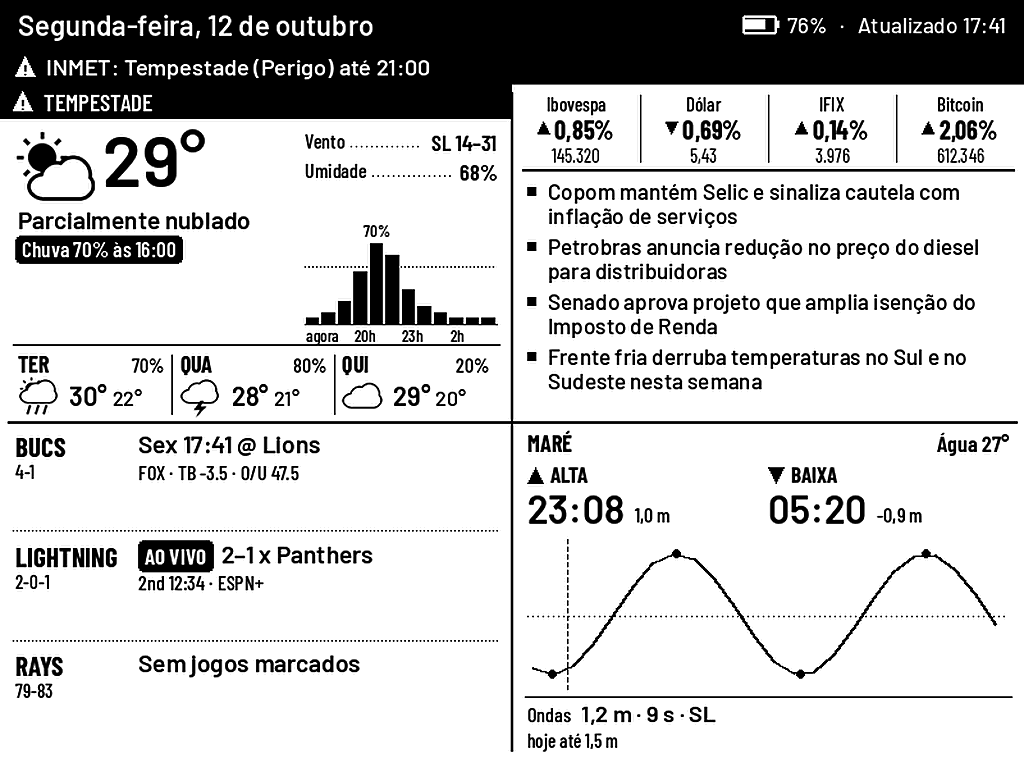
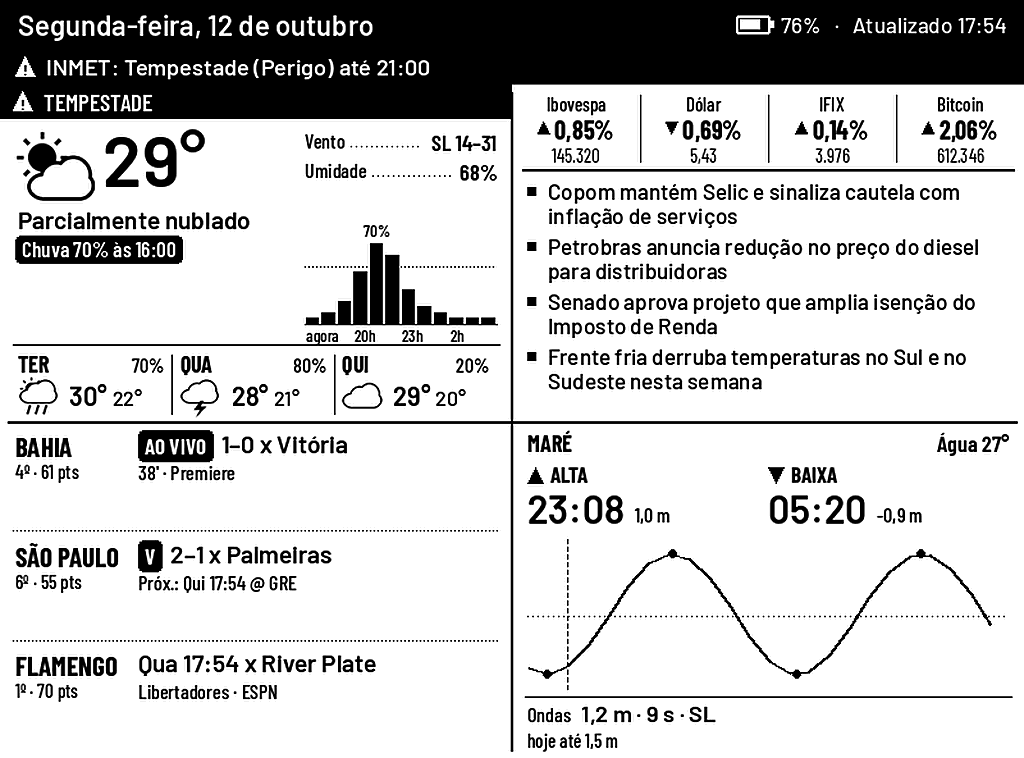
README: a Kindle Paperwhite project first; credit the original apart
- Rewritten in Portuguese around the Kindle: what the four corners show
  here (INMET, g1 / Agência Brasil, Ibovespa / dólar / IFIX / bitcoin,
  Bahia / São Paulo / G4, tides and waves), tap zones, how the Kindle and
  the server talk, setup (CASAOS.md, kindle/README.md), the dashboard and
  its Salvador defaults, data sources.
- The original eink-quad (j-rod-ay, Seeed reTerminal E1001) gets its own
  "Projeto original" section: what comes from it, what was added here, and
  that the E1001 path and the original options still work.
- Screenshots: kindle-quad / -weather / -news / -sports / -sea, from
  kindle_cases.py, whose sample teams are now Bahia, São Paulo, Flamengo.
- kindle/README.md: server link points at CASAOS.md / "Montando".

Claude-Session: https://claude.ai/code/session_01GVZJyjXu3HFDda6DCF8SeA

diff --git a/server/kindle_cases.py b/server/kindle_cases.py
@@ -33,17 +33,18 @@ heads = [S.Headline(t, "g1", now - 600 * i) for i, t in enumerate([
 qs = [S.Quote(sym, name, p, p / (1 + c / 100), [p / (1 + c / 100) * (1 + c / 100 * k / (n - 1)) for k in range(n)], "open", now)
       for sym, name, p, c, n in [("^BVSP", "Ibovespa", 145320.4, 0.85, 50), ("BRL=X", "Dólar", 5.4321, -0.69, 200),
                                  ("IFIX.SA", "IFIX", 3975.77, 0.14, 50), ("BTC-BRL", "Bitcoin", 612345.9, 2.06, 288)]]
-S.TEAMS.update({"bucs": ("Bucs", "football", "nfl", "tb"), "rays": ("Rays", "baseball", "mlb", "tb"),
-                "lightning": ("Lightning", "hockey", "nhl", "tb")})
-g = lambda **k: S.Game(**{"team": "", "abbr": "TB", "opp": "NO", "opp_name": "Saints", "home": True,
-                          "start": now + 86400, "state": "pre", "detail": "", **k})
-teams = [S.TeamRow("bucs", "Bucs", "4-1", last=g(state="post", us=27, them=17, start=now - 86400 * 2, detail="Final"),
-                   next=g(opp="DET", opp_name="Lions", home=False, start=now + 86400 * 4, tv="FOX",
-                          odds=S.Odds("DraftKings", "TB -3.5", -3.5, 47.5, -180, 150, 62))),
-         S.TeamRow("lightning", "Lightning", "2-0-1", live=g(opp="FLA", opp_name="Panthers", state="in", us=2, them=1,
-                                                             detail="2nd 12:34", tv="ESPN+")),
-         S.TeamRow("rays", "Rays", "79-83", last=g(opp="NYY", opp_name="Yankees", state="post", us=3, them=5,
-                                                   start=now - 86400 * 14, detail="Final"))]
+g = lambda key, **k: S.Game(**{"key": key, "team": "", "abbr": "", "opp": "", "opp_name": "", "home": True,
+                               "start": now + 86400, "state": "pre", "detail": "", **k})
+teams = [S.TeamRow("bahia", "Bahia", "4º · 61 pts",
+                   live=g("bahia", opp="VIT", opp_name="Vitória", state="in", us=1, them=0, detail="38'", tv="Premiere")),
+         S.TeamRow("sao_paulo", "São Paulo", "6º · 55 pts",
+                   last=g("sao_paulo", opp="PAL", opp_name="Palmeiras", state="post", us=2, them=1,
+                          start=now - 86400, detail="Final"),
+                   next=g("sao_paulo", opp="GRE", opp_name="Grêmio", home=False, start=now + 86400 * 3, tv="Globo")),
+         S.TeamRow("bra_819", "Flamengo", "1º · 70 pts",
+                   next=g("bra_819", opp="RIV", opp_name="River Plate", start=now + 86400 * 2, note="Libertadores",
+                          tv="ESPN"))]
+S.TEAMS.setdefault("bra_819", ("Flamengo", "soccer", "bra.1", "819"))
 fl = R.Sighting(callsign="DAL2474", airline="Delta Air Lines", origin="ATL", dest="TPA", origin_city="Atlanta",
                 dest_city="Tampa", alt_ft=6400, speed_kt=252, dist_nm=1.8, elev_deg=31, seen_at=now - 30,
                 flight_no="DL 2474", aircraft="Airbus A321neo", bearing=315, progress=0.93, eta_min=9, dest_dist_nm=4)

diff --git a/README.md b/README.md
@@ -1,118 +1,129 @@
-# Quad Board — Kindle Paperwhite edition
+# Quad Board para Kindle Paperwhite
 
-> Based on [j-rod-ay/eink-quad](https://github.com/j-rod-ay/eink-quad) (MIT). This copy adds a jailbroken
-> first-gen **Kindle Paperwhite** as a screen: see [`kindle/README.md`](kindle/README.md) (pt-BR).
+Um Kindle Paperwhite antigo, com jailbreak, vira um painel de cozinha: deitado de lado, ele mostra num relance o clima de Salvador, as notícias e o mercado, os jogos do Brasileirão e a maré. Tudo em 16 tons de cinza, atualizando sozinho e trocando de página com um toque.
 
-An e-paper kitchen dashboard for the Seeed reTerminal E1001. Four corners of your day on a 7.5" screen: the weather, the news and markets, your teams, and whatever is flying over the house right now.
+![O painel no Kindle Paperwhite](docs/img/kindle-quad.png)
 
-![Quad Board cycling through its pages](docs/img/demo.gif)
+## O que aparece
 
-**[See the project page →](https://j-rod-ay.github.io/eink-quad/)**
-
-🖥 **The screen: [Seeed reTerminal E1001 on Amazon](https://link.amazon/B0gH6ekeP)** — 7.5″ 800×480 mono e-paper, ESP32-S3, battery. *(affiliate link)*
-
-## What's on it
-
-| Corner | Shows |
+| Canto | Mostra |
 |---|---|
-| **Weather** | current conditions, rain chance for the next few hours, 3-day forecast, 15-minute rain nowcast, official alerts (INMET in Brazil, NWS in the US) |
-| **News & markets** | index and ticker moves, rotating headlines (g1, Agência Brasil, Folha, BBC News Brasil; WSJ still available) |
-| **Your teams** | live score, last result or next game for any ESPN team, with TV and the betting line |
-| **Sea (default here)** | next high/low tide, the tide curve, waves and water temperature, from Open-Meteo Marine; `sky_mode` = `planes` brings the plane corner back |
-| **Plane overhead** | airline, route, aircraft, altitude and which way to look, from live ADS-B. An ISS pass or a visible rocket launch takes this corner over |
+| **Clima** | condição atual, chance de chuva nas próximas horas, previsão de 3 dias, aviso de chuva para os próximos minutos e alertas oficiais do **INMET** |
+| **Notícias e mercado** | manchetes do **g1** e da **Agência Brasil** (Folha e BBC News Brasil opcionais), mais **Ibovespa, dólar, IFIX e bitcoin** com minigráfico do dia |
+| **Times** | **Bahia**, **São Paulo** e o **G4** do Brasileirão ao vivo: placar, último resultado, próximo jogo (Libertadores, Sul-Americana e Copa do Brasil inclusive), posição e pontos |
+| **Mar** | próxima maré alta e baixa, curva da maré, ondas e temperatura da água. Passagens visíveis da ISS e lançamentos de foguete tomam o canto quando acontecem |
 
-A strip under the header carries one line: your own pinned message, a severe weather alert, or a sentence from Claude that ties the day together (optional).
+Logo abaixo da data, uma faixa traz uma linha: o seu recado fixado, um alerta severo do INMET ou um resumo do dia escrito pelo **Claude** (opcional). A interface toda está em português, com °C, relógio de 24 h e números no formato brasileiro.
 
-The three buttons on top work as **home**, **previous page** and **next page**. Each corner has its own detail page:
+Cada canto tem uma página de detalhe:
 
 | | |
 |---|---|
-| ![Weather](docs/img/weather.png) | ![News & markets](docs/img/news.png) |
-| ![Scores](docs/img/sports.png) | ![Sky above](docs/img/sky.png) |
+| ![Clima](docs/img/kindle-weather.png) | ![Notícias e mercado](docs/img/kindle-news.png) |
+| ![Placar e agenda](docs/img/kindle-sports.png) | ![Mar e marés](docs/img/kindle-sea.png) |
 
-## How it works
+### Toque
 
-The screen doesn't decide anything. A small Python server renders every pixel with Pillow, diffs the frame against what's already on the glass, and hands the board only the rectangles that changed. The board long-polls over HTTPS (or deep-sleeps between checks on battery) and plays those rectangles as ~1 s partial refreshes. A full refresh with 4 grey levels runs on the regular update, and a flashing one every couple of hours wipes ghosting.
+Com o Kindle deitado:
 
-Changing the layout, the cadence or a data source never means reflashing. Everything is a setting on the server's web dashboard.
+| Toque | Faz |
+|---|---|
+| terço **esquerdo** | página anterior |
+| terço **direito** | próxima página |
+| **meio** | volta ao quadro inicial (no quadro, atualiza tudo) |
+| **segurar 3 s** | sai e devolve a interface do Kindle |
+
+## Como funciona
 
 ```
-server/    Python: data sources, renderer, long-poll server, settings dashboard
-firmware/  PlatformIO / Arduino for the reTerminal E1001 (ESP32-S3)
-kindle/    KUAL extension + busybox client for a jailbroken Kindle Paperwhite
-docs/      the project page and screenshots
+Kindle (KUAL + script busybox)                   servidor (Python, no CasaOS)
+  pergunta: "mudou alguma coisa?"  ───────────▶  espera até a próxima versão
+                                   ◀───────────  "versão 13, sem piscar"
+  baixa o PNG 758×1024 pronto     ───────────▶  desenha tudo com Pillow
+  mostra com FBInk / eips
+
+  toque ─▶ manda as coordenadas   ───────────▶  decide a zona e troca a página
 ```
 
-## Also on a Kindle
+O Kindle não decide nada: o servidor desenha cada pixel, já girado e em 16 tons de cinza, e o Kindle só baixa a imagem e mostra. Mudar layout, fontes de dados ou frequência é sempre uma configuração no dashboard do servidor, nunca uma mexida no Kindle.
 
-A jailbroken first-gen **Kindle Paperwhite** works as a second screen: the server renders a 16-grey landscape version and a busybox script on the Kindle shows it, with tap zones for previous / home / next. See [`kindle/README.md`](kindle/README.md).
+- **Na tomada:** o Kindle fica acordado e os toques respondem em 1–2 s.
+- **Na bateria:** ele acorda logo depois de cada atualização (a cada 10 min), fica uns 25 s aceitando toques e volta a dormir.
+- **Piscadas:** a tela pisca para limpar fantasmas só ao iniciar e a cada 8 atualizações; o resto é atualização parcial, sem piscar.
 
-![Quad Board on a Kindle Paperwhite](docs/img/kindle-quad.png)
+## Montando
 
-## Data sources
+Você precisa de:
 
-All keyless: Open-Meteo (forecast + nowcast, worldwide), INMET (alerts, Brazil) or api.weather.gov (alerts, US), RSS from g1 / Agência Brasil / Folha / BBC News Brasil (or WSJ), Yahoo Finance spark, ESPN's site API, adsb.lol + adsbdb, CelesTrak + Launch Library 2. The one-line brief uses the [`claude`](https://docs.claude.com/en/docs/claude-code) CLI if it's installed and logged in. Turn `llm_brief` off otherwise.
+- um **Kindle Paperwhite de 1ª geração** (2012) com **jailbreak** e **KUAL** (o FBInk é opcional, já que o `eips` do próprio Kindle também serve);
+- uma máquina **sempre ligada** na rede de casa para o servidor. Aqui é um ZimaBoard com **CasaOS**, mas qualquer Docker ou Python 3.10+ serve.
 
-## Setup
+Os passos:
 
-### Hardware
-- **[Seeed reTerminal E1001](https://link.amazon/B0gH6ekeP)** — 7.5" 800×480 mono e-paper, ESP32-S3 *(affiliate link; also at [Seeed](https://www.seeedstudio.com/))*
-- An always-on machine for the server (VPS, Raspberry Pi, NAS), reachable from the board over **HTTPS**. Put it behind nginx or Caddy. The firmware doesn't verify certificates, so a self-signed one works too.
+1. **Servidor:** siga o [`CASAOS.md`](CASAOS.md). Ele cobre o Docker, o `.env` com os tokens, o dashboard, o resumo do Claude e como manter o Docker no SSD.
+2. **Kindle:** siga o [`kindle/README.md`](kindle/README.md). Ele cobre copiar a extensão do KUAL, configurar o `quad.conf`, o Start, a calibração do toque, o início automático no boot e o diagnóstico.
 
-### Server
-
-**On CasaOS / Docker:** `docker compose up -d --build` from the repo root (set `QUAD_TOKEN` and `QUAD_ADMIN` in `.env` first). Step by step, in Portuguese: [`CASAOS.md`](CASAOS.md).
-
-Or straight from Python:
+Sem Docker, o servidor também roda direto:
 
 ```sh
 cd server
 pip install -r requirements.txt
-cp quad.env.example quad.env       # set QUAD_TOKEN and QUAD_ADMIN
+cp quad.env.example quad.env       # defina QUAD_TOKEN e QUAD_ADMIN
 set -a; . ./quad.env; set +a
-python app.py                      # listens on 127.0.0.1:8740
+QUAD_BIND=0.0.0.0 python app.py    # porta 8740
 ```
 
-Open `http://127.0.0.1:8740/?k=<QUAD_ADMIN>` to set your location, units, feeds, tickers, teams, panel order and refresh cadence. Settings are saved to `config.json`.
+## Dashboard
 
-**Preview without hardware:** `python cases.py` renders every screen with live data to `case_*.png`.
+Abra `http://<servidor>:8740/?k=<QUAD_ADMIN>` em qualquer navegador da rede. Lá ficam:
 
-**Your teams:** this edition defaults to the Brasileirão: `bahia`, `sao_paulo` and `g4`, which pulls in whoever is in the top four of ESPN's live `bra.1` table (set `g4_size` to change how many). Soccer teams show their table position and points, and their Libertadores, Sul-Americana and Copa do Brasil games too. The original Tampa keys (`bucs`, `lightning`, `rays`, `gators_fb`, `gators_bb`) are still there. Add your own in `config.json` with ESPN's sport, league and team id or abbreviation, e.g. `"flamengo": ["Flamengo", "soccer", "bra.1", "819"]` (the id is in the club's espn.com.br URL):
+- **Prévia ao vivo:** o que o Kindle está mostrando agora, e o status dele (bateria, USB, último toque).
+- **Configurações:** localização, unidades, idioma, relógio, times, feeds de notícias, cotações, conteúdo do canto do mar ou dos aviões, frequências, rotação da tela e eixos do toque.
+- **Recado fixo:** um texto que aparece na faixa de cima.
+- **Health:** a situação de cada fonte de dados, com o erro quando alguma falha.
 
-```json
-{
-  "city": "Chicago",
-  "lat": 41.8781, "lon": -87.6298,
-  "custom_teams": {
-    "bears": ["Bears", "football", "nfl", "chi"],
-    "cubs":  ["Cubs", "baseball", "mlb", "chc"]
-  },
-  "teams": ["bears", "cubs"]
-}
+Os padrões já vêm para Salvador:
+
+| Configuração | Padrão |
+|---|---|
+| Localização | Salvador, BA (código IBGE 2927408, para os alertas do INMET) |
+| Unidades / relógio / idioma / números | °C e km/h / 24 h / português / `1.234,56` |
+| Times | `bahia`, `sao_paulo`, `g4` (os 4 primeiros da tabela, ao vivo) |
+| Notícias | g1, g1 Economia, Agência Brasil |
+| Cotações | `^BVSP`, `BRL=X`, `IFIX.SA`, `BTC-BRL` |
+| Canto do céu | `sea` (maré e ondas); `planes` traz de volta o radar de aviões |
+
+Para outro time, acrescente no `config.json` com o id da ESPN, que aparece na URL do clube em espn.com.br. Por exemplo, `"custom_teams": {"flamengo": ["Flamengo", "soccer", "bra.1", "819"]}`, e depois `flamengo` na lista `teams`.
+
+**Prévia sem hardware:** `cd server && python kindle_cases.py` gera todas as telas do Kindle com dados de exemplo (`kindle_*.png`).
+
+## Fontes de dados
+
+Todas são gratuitas e sem chave:
+
+- **Clima:** [Open-Meteo](https://open-meteo.com) (previsão e chuva para os próximos minutos); alertas do [INMET](https://alertas2.inmet.gov.br).
+- **Mar:** Open-Meteo Marine. As marés vêm de um modelo oceânico: servem para saber quando a maré está alta, mas não para navegação.
+- **Notícias:** RSS do g1, da Agência Brasil, da Folha e da BBC News Brasil.
+- **Cotações:** Yahoo Finance.
+- **Futebol:** API pública da ESPN (com os nomes e as notícias da ESPN Brasil).
+- **Céu:** CelesTrak (passagens da ISS) e Launch Library 2 (lançamentos). Para o radar de aviões opcional, adsb.lol e adsb.fi, que hoje não cobrem Salvador.
+- **Resumo do dia:** o [Claude Code](https://code.claude.com) dentro do container, com a sua assinatura (`CLAUDE_CODE_OAUTH_TOKEN`). Sem token, fica desligado.
+
+## Estrutura
+
+```
+server/    Python: fontes de dados, renderização, servidor de long-poll, dashboard
+kindle/    extensão do KUAL + script busybox do Kindle (e o guia de instalação)
+firmware/  firmware do Seeed reTerminal E1001, do projeto original
+docs/      imagens
 ```
 
-### Firmware
+## Projeto original
 
-```sh
-cd firmware
-cp src/secrets.example.h src/secrets.h   # your server's host and QUAD_TOKEN
-pio run -t upload --upload-port COM9     # or upload.bat COM9 on Windows
-```
+Este repositório é uma adaptação do **[eink-quad](https://github.com/j-rod-ay/eink-quad)**, de [j-rod-ay](https://github.com/j-rod-ay), um painel de cozinha feito para a tela e-paper **Seeed reTerminal E1001** (7,5″, ESP32-S3), com clima, notícias do WSJ, times de Tampa e os aviões que passam sobre a casa ([página do projeto](https://j-rod-ay.github.io/eink-quad/)). Toda a base vem de lá: o servidor que desenha cada pixel, o protocolo de long-poll, os painéis e o dashboard.
 
-On first boot the board opens a Wi-Fi setup portal named `QuadBoard-XXXX`. Join it from your phone and pick your network. To get back to it later, hold the right button and tap the left one.
+Aqui foram acrescentados o Kindle Paperwhite como tela, a localização para o Brasil (INMET, Brasileirão, notícias e mercado brasileiros, português, °C e 24 h), o painel do mar e o empacotamento em Docker para o CasaOS. O suporte ao E1001 continua no código (`firmware/` e o layout de 800×480), e as opções originais (WSJ, times americanos, °F, inglês, aviões) seguem disponíveis no dashboard.
 
-`firmware/serial.ps1 -Port COM9` resets the board and prints its boot log.
+## Licença
 
-## Notes
-
-- The sky corner defaults to the sea (`sky_mode: sea`): community ADS-B networks (adsb.lol, adsb.fi, OpenSky) have no receivers around Salvador. Tides come from an ocean model: good for "when is the water high", not for navigation.
-- The default location is Salvador, BA (-12.9711, -38.5108; IBGE 2927408 for INMET alerts). Change city, latitude and longitude on the dashboard.
-- Times use the server's `TZ` (defaults to `America/Sao_Paulo`). Market hours are always NYSE's.
-- Units default to °C and km/h, the clock to 24-hour, the board's language to Portuguese (dates, labels, weather, sports and sky; `lang` = `en` switches it all back) and numbers to 1.234,56; all switch on the dashboard.
-- Default tickers: Ibovespa (`^BVSP`), dólar (`BRL=X`), IFIX (`IFIX.SA`) and bitcoin in reais (`BTC-BRL`). Each one's open/closed state follows its own market (B3, FX, crypto or NYSE).
-- The notes feature reads a separate "note box" project's database and is off unless `QUAD_NOTES_DB` is set.
-- Team logos and airline logos are downloaded at runtime and cached in `server/cache/`. None are shipped in this repo.
-
-## License
-
-MIT. Bundled fonts carry their own licences, listed in [`server/fonts/LICENSES.md`](server/fonts/LICENSES.md).
+MIT, como o original. As fontes incluídas têm licenças próprias, listadas em [`server/fonts/LICENSES.md`](server/fonts/LICENSES.md).

diff --git a/kindle/README.md b/kindle/README.md
@@ -33,7 +33,7 @@ Kindle (quad.sh, busybox)                     servidor (app.py)
 
 1. **Jailbreak** no PW1 e o **KUAL** instalado ([MobileRead: Kindle Developer's Corner](https://www.mobileread.com/forums/forumdisplay.php?f=150)).
 2. Opcional, mas recomendado: **FBInk** (do NiLuJe). Se o KOReader estiver instalado, ele já vem junto. Sem FBInk, o script usa o `eips` do sistema, que também funciona.
-3. O **servidor** deste repositório rodando numa máquina da rede local (Raspberry Pi, NAS…). Veja o [README principal](../README.md#server).
+3. O **servidor** deste repositório rodando numa máquina da rede local (Raspberry Pi, NAS…). Veja o [`CASAOS.md`](../CASAOS.md) ou a seção [Montando](../README.md#montando) do README principal.
 
 ## Instalação
 
